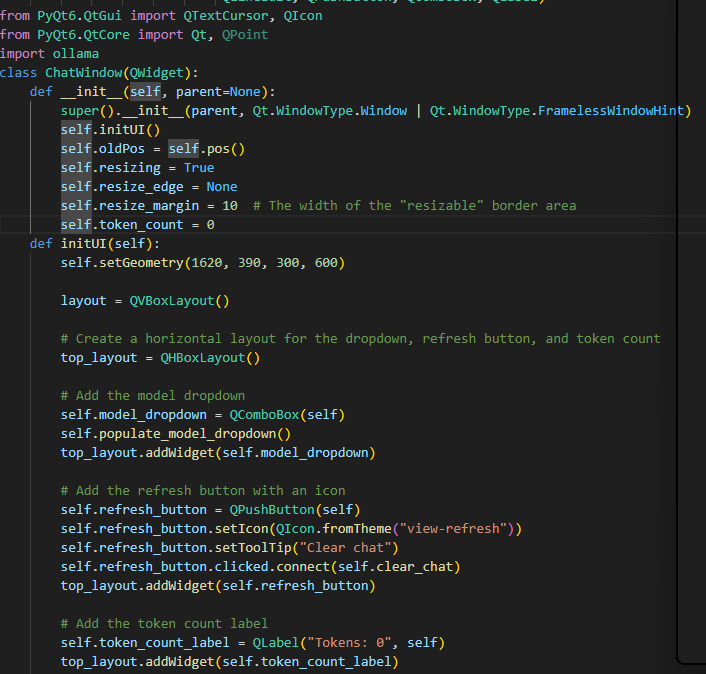
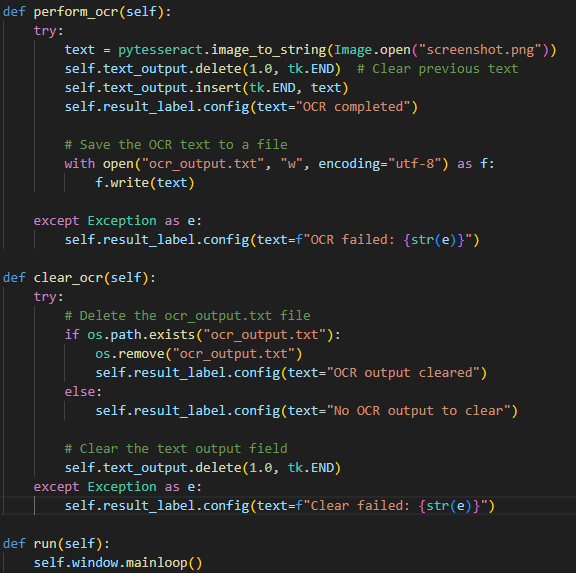
ocr clear

diff --git a/ocr.py b/ocr.py
@@ -1,3 +1,4 @@
+import os
 import tkinter as tk
 from tkinter import ttk, Tk, Label, Text, Scrollbar, VERTICAL, RIGHT, Y, Frame, Toplevel, Canvas
 from PIL import Image, ImageTk
@@ -64,9 +65,17 @@ class OCR:
         self.text_output = tk.Text(self.scroll_frame.scrollable_frame, height=10, width=50)
         self.text_output.pack(padx=10, pady=10)
 
+        self.button_frame = ttk.Frame(self.scroll_frame.scrollable_frame)
+        self.button_frame.pack(padx=10, pady=10)
+
         # Create an OCR button
-        self.ocr_button = ttk.Button(self.scroll_frame.scrollable_frame, text="Perform OCR", command=self.perform_ocr)
-        self.ocr_button.pack(padx=10, pady=10)
+        self.ocr_button = ttk.Button(self.button_frame, text="Perform OCR", command=self.perform_ocr)
+        self.ocr_button.pack(side=tk.LEFT, padx=(0, 5))
+
+        # Create a Clear button
+        self.clear_button = ttk.Button(self.button_frame, text="Clear", command=self.clear_ocr)
+        self.clear_button.pack(side=tk.LEFT, padx=(5, 0))
+
 
     def select_area(self):
         self.window.withdraw()  # Hide the OCR window
@@ -146,6 +155,20 @@ class OCR:
             
         except Exception as e:
             self.result_label.config(text=f"OCR failed: {str(e)}")
+            
+    def clear_ocr(self):
+        try:
+            # Delete the ocr_output.txt file
+            if os.path.exists("ocr_output.txt"):
+                os.remove("ocr_output.txt")
+                self.result_label.config(text="OCR output cleared")
+            else:
+                self.result_label.config(text="No OCR output to clear")
+
+            # Clear the text output field
+            self.text_output.delete(1.0, tk.END)
+        except Exception as e:
+            self.result_label.config(text=f"Clear failed: {str(e)}")
 
     def run(self):
         self.window.mainloop()

diff --git a/README.md b/README.md
@@ -14,7 +14,6 @@ This is a simple chat application built using `PyQt6` that integrates with the `
 3. **To use the OCR tool**:
   - First install Google's Tesseract OCR model [here](https://github.com/tesseract-ocr/tesseract)
   - Set up your systems enviromental variables as necessary
-  - By default the software is install into your C:\Program Files\Tesseract-OCR\tesseract.exe if you're running Windows, however if you need to change the directory make sure you update your ocr.py to reflect the change. ```class OCR:
-    def __init__(self, app):
-        self.app = app
-        pytesseract.pytesseract.tesseract_cmd = r'C:\Program Files\Tesseract-OCR\tesseract.exe'```
+  - By default the software is install into your C:\Program Files\Tesseract-OCR\tesseract.exe if you're running Windows
+
+  - When using the OCR every screenshot you process output is automatically injected into chat, examples of usage would be take a screenshot of code, preform OCR, and in chat ask something like "What is this code doing" and hit enter. If you dont want the OCR output text injected into chat make sure to hit 'Clear' in the OCR window.
